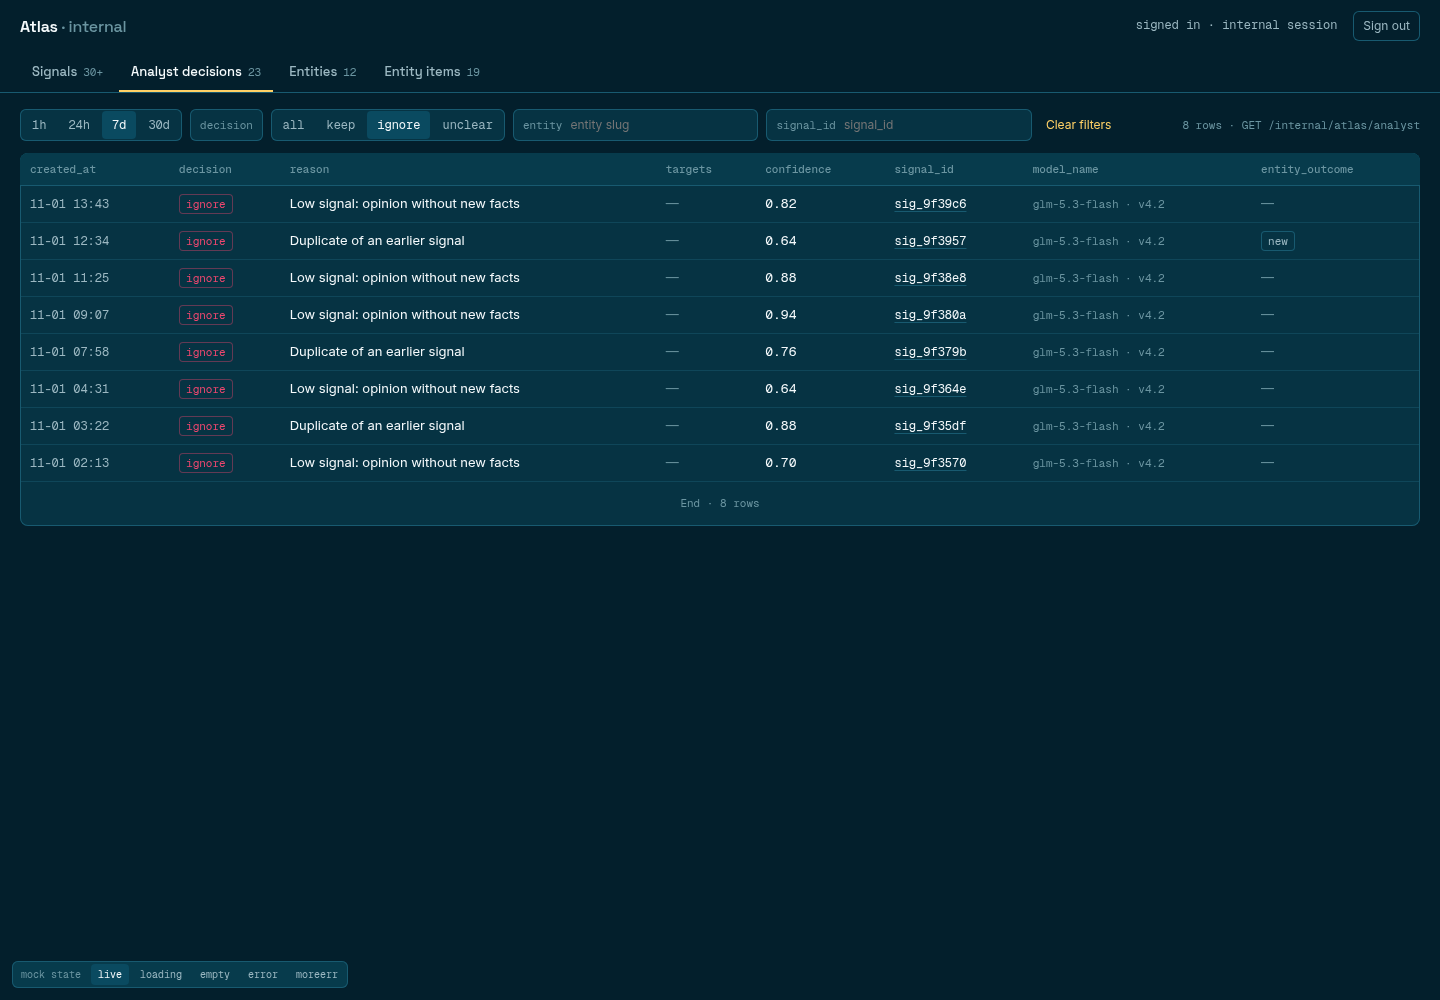
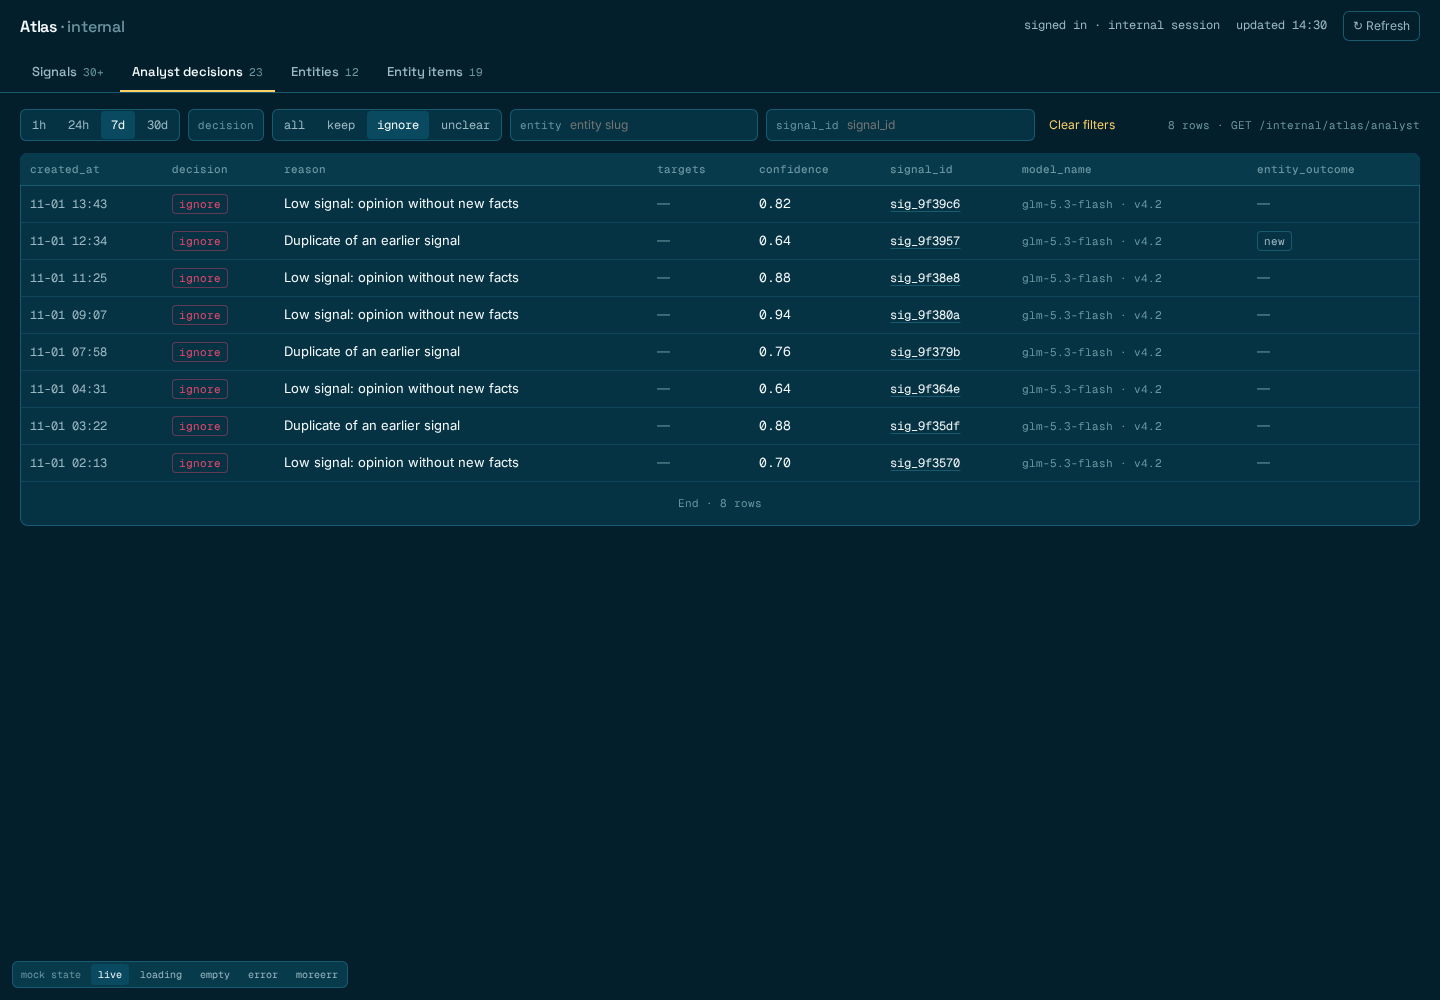
docs(mockups): #555 internal dashboard, scope + decisions

diff --git a/docs/mockups/internal-dashboard/index.html b/docs/mockups/internal-dashboard/index.html
@@ -1,7 +1,7 @@
 <!doctype html>
-<!-- MyBoon internal Atlas dashboard (#555). View-only mock. ALL ROWS ARE SAMPLE DATA. Columns match packages/api/src/internal/atlas-browse.ts (#552). -->
+<!-- Atlas internal dashboard (#555): standalone internal tool on the shared computer, reads the #552 API. View-only mock. ALL ROWS ARE SAMPLE DATA. Columns match packages/api/src/internal/atlas-browse.ts (#552). -->
 <html lang="en"><head><meta charset="utf-8"><meta name="viewport" content="width=device-width,initial-scale=1,viewport-fit=cover">
-<meta name="robots" content="noindex"><title>Atlas · MyBoon internal</title>
+<meta name="robots" content="noindex"><title>Atlas · internal dashboard</title>
 <link rel="preconnect" href="https://fonts.googleapis.com"><link href="https://fonts.googleapis.com/css2?family=Space+Grotesk:wght@500;600;700&family=Inter:wght@400;500;600&family=Geist+Mono:wght@400;500&display=swap" rel="stylesheet">
 <style>
 :root{--bg:#031F2C;--card:#063343;--surf:#073B4C;--lift:#0A4A60;--edge:#185A70;--bone:#F5FAFC;--dim:#9CB8C2;--faint:#6B95A1;--green:#06D6A0;--gold:#FFD166;--red:#EF476F;--blue:#118AB2;
@@ -77,7 +77,7 @@ a.lk{color:var(--bone);text-decoration:underline;text-decoration-color:var(--edg
 }
 @media (min-width:721px){.active{display:none}}
 </style></head><body>
-<header><div class="bar"><h1>Atlas <span>· internal</span></h1><div class="sp"></div><span class="who mono">signed in · internal session</span><button class="out">Sign out</button></div>
+<header><div class="bar"><h1>Atlas <span>· internal</span></h1><div class="sp"></div><span class="who mono">signed in · internal session</span><span class="who mono" id="upd">updated 14:30</span><button class="out" data-refresh title="Refetch this tab with the same filters">↻ Refresh</button></div>
 <nav class="tabs" id="tabs"></nav></header>
 <main><div class="filters" id="filters"></div><div id="body"></div></main>
 <div class="scrim" id="scrim"></div><aside class="detail" id="detail" aria-label="Signal detail"></aside>
@@ -99,12 +99,13 @@ for(let i=0;i<34;i++){const s=SRC[i%SRC.length];const sid='sig_'+(0x9f3a10-i*37)
 const ENTITIES=ENT.map((e,i)=>({id:'ent_'+(0x3b00+i*7).toString(16),slug:e[0],name:e[1],type:e[2],aliases:{solana:['SOL'],jupiter:['JUP','Jup'],'federal-reserve':['Fed','FOMC'],bitcoin:['BTC'],'jerome-powell':['Powell']}[e[0]]||[],summary:'Sample summary for '+e[1]+'.',status:i===11?'proposed':i===8?'retired':'active',show_in_carousel:i<5,created_at:ago(60*24*(40-i)),updated_at:ago(i*47+9),entity_reviewed_at:i%3?ago(i*90+30):null}));
 // ---------- STATE ----------
 const Q=new URLSearchParams(location.search);
-const S={tab:Q.get('tab')||'signals',shown:Q.get('shown')?+Q.get('shown'):10,mock:Q.get('state')||'live',f:{since:'24h'},detail:Q.get('detail'),sheet:Q.has('sheet')};
+function defF(t){return t==='entities'?{}:{since:'24h'}}
+const S={tab:Q.get('tab')||'signals',shown:Q.get('shown')?+Q.get('shown'):10,mock:Q.get('state')||'live',f:defF(Q.get('tab')||'signals'),detail:Q.get('detail'),sheet:Q.has('sheet')};
 if(Q.get('f'))Object.assign(S.f,JSON.parse(Q.get('f')));
 const TABS={signals:['Signals',SIGNALS,'GET /internal/atlas/signals'],analyst:['Analyst decisions',DECS,'GET /internal/atlas/analyst'],entities:['Entities',ENTITIES,'GET /internal/atlas/entities'],items:['Entity items',ITEMS,'GET /internal/atlas/entity-items']};
 const FIL={signals:[['since','time'],['source','sel',['x','rss','birdeye','jupiter']],['q','text','Search text (7d max)']],
  analyst:[['since','time'],['decision','seg',['keep','ignore','unclear']],['entity','text','entity slug'],['signal_id','text','signal_id']],
- entities:[['since','time'],['type','sel',['organization','asset','protocol','person','topic','place','event','product','regulation']],['status','sel',['active','proposed','retired']],['carousel','seg',['true','false']],['q','text','name, slug or alias']],
+ entities:[['type','sel',['organization','asset','protocol','person','topic','place','event','product','regulation']],['status','sel',['active','proposed','retired']],['carousel','seg',['true','false']],['q','text','name, slug or alias']],
  items:[['since','time'],['angle','seg',['new_story','existing_story','plain_update']],['entity','text','entity slug'],['signal_id','text','signal_id']]};
 const WIN=['1h','24h','7d','30d'];const winMin={'1h':60,'24h':1440,'7d':10080,'30d':43200};
 const rel=iso=>{const m=Math.round((NOW-Date.parse(iso))/60000);return m<60?m+'m':m<1440?Math.floor(m/60)+'h '+(m%60)+'m':Math.floor(m/1440)+'d'};
@@ -137,8 +138,8 @@ function render(){
  if(S.mock==='loading'){body.innerHTML=`<div class="tw"><table><thead><tr>${cols.map(c=>`<th>${c[0]}</th>`).join('')}</tr></thead><tbody>${Array.from({length:8},()=>`<tr class="sk">${cols.map(()=>'<td><div style="width:'+(40+Math.random()*50)+'%"></div></td>').join('')}</tr>`).join('')}</tbody></table></div>`;count('loading…');return}
  if(S.mock==='error'){body.innerHTML=`<div class="tw"><div class="state"><b>Couldn’t load ${TABS[S.tab][0].toLowerCase()}</b>The API returned 502 (upstream read failed). Your filters are kept.<br><button class="retry" data-retry>Retry</button></div></div>`;count('');return}
  const all=S.mock==='empty'?[]:rows();const show=all.slice(0,S.shown);
- if(!all.length){body.innerHTML=`<div class="tw"><div class="state"><b>No ${TABS[S.tab][0].toLowerCase()} match</b>Nothing in the last ${S.f.since||'window'} with these filters.<br><button class="retry" data-clear>Clear filters</button></div></div>`;count('0 rows');return}
- body.innerHTML=(S.mock==='moreerr'?`<div class="banner"><span>Couldn’t load more. The rows above are kept.</span><button class="clear" data-retry>Retry</button></div>`:'')+`<div class="tw"><table><thead><tr>${cols.map(c=>`<th>${c[0]}</th>`).join('')}</tr></thead><tbody>${show.map(r=>`<tr class="r ${S.detail&&(r.signal_id===S.detail)&&S.tab==='signals'?'sel':''}" data-row="${r.signal_id||''}" data-slug="${r.slug||''}">${cols.map(c=>`<td data-m="${c[2]}">${c[1](r)}</td>`).join('')}</tr>`).join('')}</tbody></table>
+ if(!all.length){body.innerHTML=`<div class="tw"><div class="state"><b>No ${TABS[S.tab][0].toLowerCase()} match</b>${S.f.since?'Nothing in the last '+S.f.since+' with these filters.':'Nothing matches these filters.'}<br><button class="retry" data-clear>Clear filters</button></div></div>`;count('0 rows');return}
+ body.innerHTML=(S.mock==='moreerr'?`<div class="banner"><span>Couldn’t load more. The rows above are kept.</span><button class="clear" data-retry>Retry</button></div>`:'')+`<div class="tw"><table><thead><tr>${cols.map(c=>`<th>${c[0]}</th>`).join('')}</tr></thead><tbody>${show.map(r=>`<tr class="r ${S.detail&&(r.signal_id===S.detail)?'sel':''}" data-row="${r.signal_id||''}" data-slug="${r.slug||''}">${cols.map(c=>`<td data-m="${c[2]}">${c[1](r)}</td>`).join('')}</tr>`).join('')}</tbody></table>
  <div class="more">${show.length<all.length?`<button data-more>Load more</button><span class="faint mono" style="font-size:11px">${show.length} shown · next cursor</span>`:`<span class="faint mono" style="font-size:11px">End · ${show.length} rows</span>`}</div></div>`;
  count(`${show.length} rows · ${TABS[S.tab][2]}`);
 }
@@ -155,10 +156,10 @@ function openSheet(){const sh=document.getElementById('sheet');sh.innerHTML=`<di
  sh.classList.add('on');document.getElementById('sscrim').classList.add('on')}
 function closeSheet(){document.getElementById('sheet').classList.remove('on');document.getElementById('sscrim').classList.remove('on')}
 function mockbar(){document.getElementById('mockbar').innerHTML='<span>mock state</span>'+['live','loading','empty','error','moreerr'].map(m=>`<button data-mock="${m}" class="${S.mock===m?'on':''}">${m}</button>`).join('')}
-document.addEventListener('click',e=>{const t=e.target.closest('[data-tab],[data-set],[data-clear],[data-more],[data-sig],[data-ent],[data-row],[data-close],[data-sheet],[data-apply],[data-mock],[data-retry],#scrim,#sscrim');if(!t)return;
- if(t.dataset.tab){S.tab=t.dataset.tab;S.f={since:'24h'};S.shown=10;closeDetail();return}
+document.addEventListener('click',e=>{const t=e.target.closest('[data-tab],[data-set],[data-clear],[data-more],[data-sig],[data-ent],[data-row],[data-close],[data-sheet],[data-apply],[data-mock],[data-retry],[data-refresh],#scrim,#sscrim');if(!t)return;
+ if(t.dataset.tab){S.tab=t.dataset.tab;S.f=defF(S.tab);S.shown=10;closeDetail();return}
  if(t.dataset.set!==undefined){const[k,v]=t.dataset.set.split(':');S.f[k]=v;S.shown=10;render();if(t.closest('#sheet'))openSheet();return}
- if(t.dataset.clear!==undefined){S.f={since:'24h'};S.shown=10;render();if(t.closest('#sheet'))openSheet();return}
+ if(t.dataset.clear!==undefined){S.f=defF(S.tab);S.shown=10;render();if(t.closest('#sheet'))openSheet();return}
  if(t.dataset.more!==undefined){S.shown+=10;render();return}
  if(t.dataset.ent){e.stopPropagation();S.tab='items';S.f={since:'30d',entity:t.dataset.ent};S.shown=10;closeDetail();closeSheet();return}
  if(t.dataset.sig){e.stopPropagation();openDetail(t.dataset.sig);return}
@@ -167,7 +168,8 @@ document.addEventListener('click',e=>{const t=e.target.closest('[data-tab],[data
  if(t.dataset.apply!==undefined||t.id==='sscrim'){closeSheet();return}
  if(t.dataset.mock){S.mock=t.dataset.mock;mockbar();render();return}
  if(t.dataset.retry!==undefined){S.mock='live';mockbar();render();return}
- if(t.dataset.row!==undefined&&S.tab==='signals'){openDetail(t.dataset.row);return}
+ if(t.dataset.row){openDetail(t.dataset.row);return}
+ if(t.dataset.refresh!==undefined){S.mock='loading';render();setTimeout(()=>{S.mock='live';S.shown=10;document.getElementById('upd').textContent='updated just now';render()},600);return}
  if(t.dataset.slug){S.tab='items';S.f={since:'30d',entity:t.dataset.slug};S.shown=10;render()}});
 document.addEventListener('change',e=>{const s=e.target.dataset.sel;if(s){S.f[s]=e.target.value;S.shown=10;render()}});
 document.addEventListener('keydown',e=>{const k=e.target.dataset&&e.target.dataset.in;if(k&&e.key==='Enter'){S.f[k]=e.target.value.trim();S.shown=10;render()}if(e.key==='Escape'){closeDetail();closeSheet()}});
